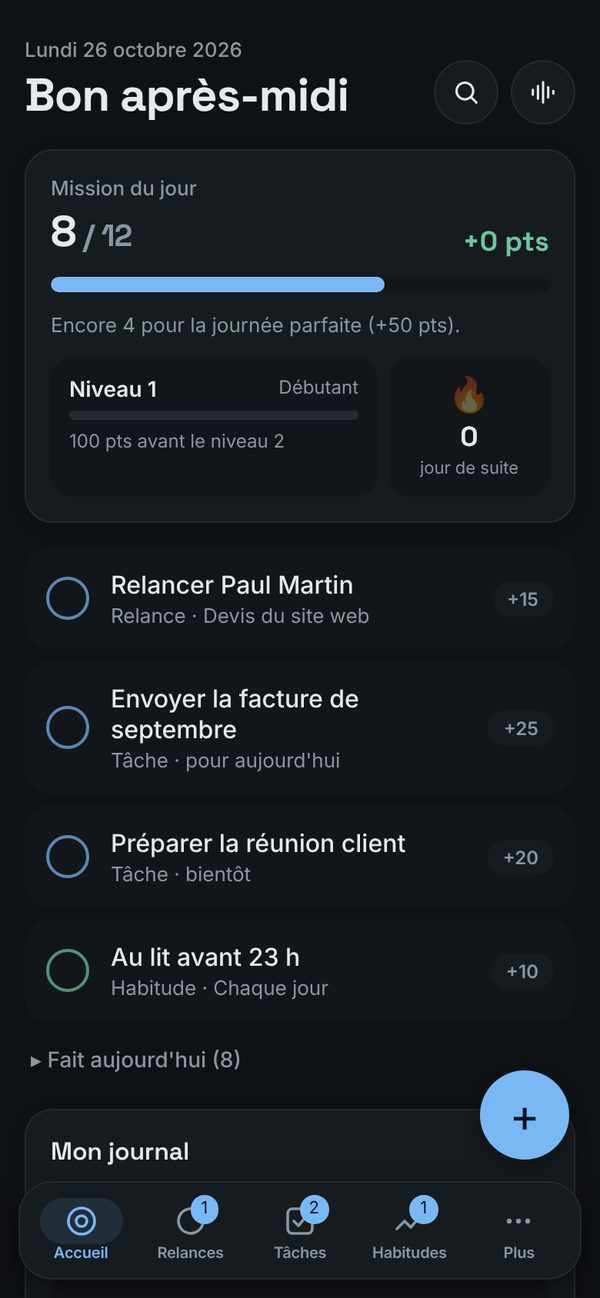
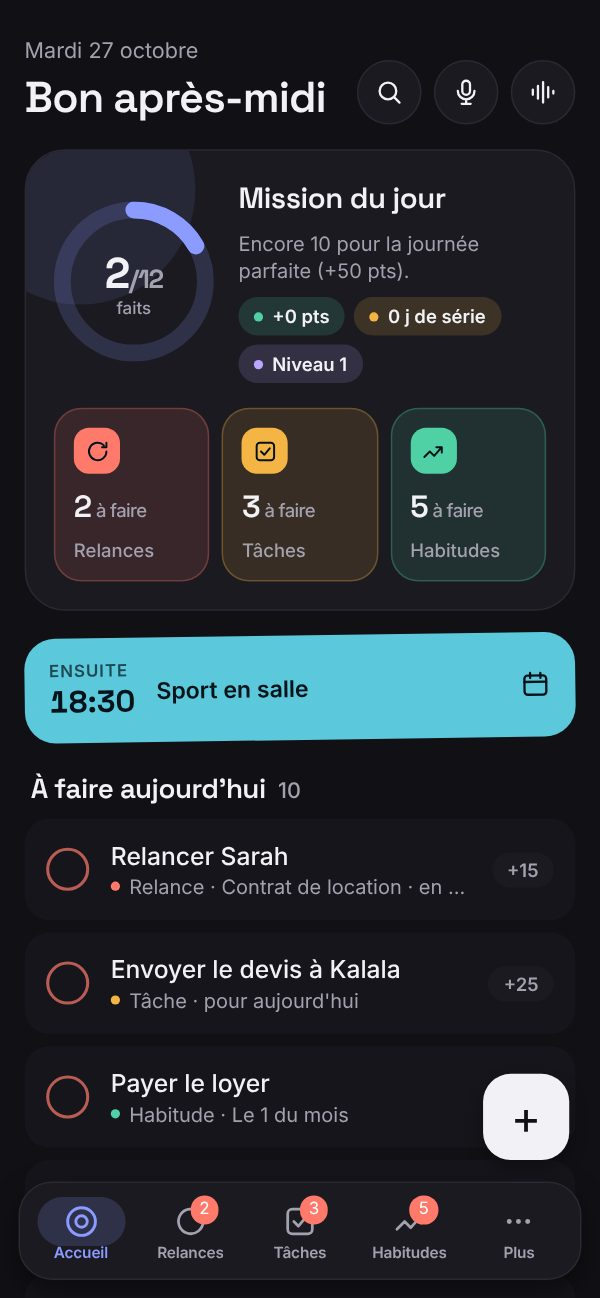
Page d'avant connexion : titre surligné, autocollants de couleur, démo en post-it et bloc final coloré
Claude-Session: https://claude.ai/code/session_013pZHjhhFWab4ZDErQf9CTK

diff --git a/src/components/accueil-public.tsx b/src/components/accueil-public.tsx
@@ -1,6 +1,7 @@
 import { useEffect, useState } from 'react';
 import { AccessibilityInfo, Image, type ImageSourcePropType, Pressable, ScrollView, Text, useWindowDimensions, View } from 'react-native';
 
+import { teinte, vive, type Vive } from '@/lib/teinte';
 import { alpha, C, F } from '@/lib/theme';
 
 import { type IconeNom, Icone } from './icones';
@@ -9,24 +10,24 @@ import { SousOnglets } from './onglets';
 import { Btn, Screen } from './ui';
 
 /** Phrases d'exemple : ce que l'app comprend vraiment (voir `lirePhrase`). La première puce est le genre. */
-const EXEMPLES = [
-  { phrase: 'Relancer Paul jeudi pour le devis', puces: ['Relance', 'Paul', 'jeudi', 'Devis'], suite: 'Ajoutée à tes relances, avec un rappel jeudi.' },
-  { phrase: 'Envoyer la facture demain urgent', puces: ['Tâche', 'Envoyer la facture', 'demain', 'importante'], suite: 'Ajoutée à tes tâches, pour demain.' },
-  { phrase: 'Sport tous les jours', puces: ['Habitude', 'Sport', 'chaque jour'], suite: 'Ajoutée à tes habitudes, à cocher chaque jour.' },
-  { phrase: '20 usd resto hier', puces: ['Dépense', '20 $', 'Resto', 'hier'], suite: 'Ajoutée à tes dépenses, convertie dans ta devise.' },
+const EXEMPLES: { phrase: string; puces: string[]; suite: string; couleur: Vive }[] = [
+  { phrase: 'Relancer Paul jeudi pour le devis', puces: ['Relance', 'Paul', 'jeudi', 'Devis'], suite: 'Ajoutée à tes relances, avec un rappel jeudi.', couleur: 'corail' },
+  { phrase: 'Envoyer la facture demain urgent', puces: ['Tâche', 'Envoyer la facture', 'demain', 'importante'], suite: 'Ajoutée à tes tâches, pour demain.', couleur: 'ambre' },
+  { phrase: 'Sport tous les jours', puces: ['Habitude', 'Sport', 'chaque jour'], suite: 'Ajoutée à tes habitudes, à cocher chaque jour.', couleur: 'menthe' },
+  { phrase: '20 usd resto hier', puces: ['Dépense', '20 $', 'Resto', 'hier'], suite: 'Ajoutée à tes dépenses, convertie dans ta devise.', couleur: 'indigo' },
 ];
 
-const ATOUTS: { icone: IconeNom; titre: string; texte: string }[] = [
-  { icone: 'relances', titre: 'Les relances ne tombent plus dans l’oubli', texte: 'Me te dit qui relancer et quand, et prépare le brouillon du message.' },
-  { icone: 'taches', titre: 'Un rappel à ta façon pour chaque chose', texte: 'Discret, insistant ou en coach : tu choisis le mode de chaque tâche et habitude, et tu règles ce que fait chaque mode.' },
-  { icone: 'portefeuille', titre: 'Tes finances dans ta devise', texte: 'Budgets, revenus, paiements récurrents et prévisions en dollars, euros, FCFA ou 15 autres devises, converties pour toi.' },
-  { icone: 'stats', titre: 'Ton historique bancaire dans tes graphiques', texte: 'Importe le relevé CSV de ta banque : les opérations sont rangées par budget, avec leurs doublons repérés.' },
-  { icone: 'onde', titre: 'Sur tous tes appareils', texte: 'Téléphone ou ordinateur : ce que tu modifies à deux endroits est fusionné, jamais écrasé.' },
+const ATOUTS: { icone: IconeNom; titre: string; texte: string; couleur: Vive }[] = [
+  { icone: 'relances', titre: 'Les relances ne tombent plus dans l’oubli', texte: 'Me te dit qui relancer et quand, et prépare le brouillon du message.', couleur: 'corail' },
+  { icone: 'taches', titre: 'Un rappel à ta façon pour chaque chose', texte: 'Discret, insistant ou en coach : tu choisis le mode de chaque tâche et habitude, et tu règles ce que fait chaque mode.', couleur: 'ambre' },
+  { icone: 'portefeuille', titre: 'Tes finances dans ta devise', texte: 'Budgets, revenus, paiements récurrents et prévisions en dollars, euros, FCFA ou 15 autres devises, converties pour toi.', couleur: 'indigo' },
+  { icone: 'stats', titre: 'Ton historique bancaire dans tes graphiques', texte: 'Importe le relevé CSV de ta banque : les opérations sont rangées par budget, avec leurs doublons repérés.', couleur: 'lagon' },
+  { icone: 'onde', titre: 'Sur tous tes appareils', texte: 'Téléphone ou ordinateur : ce que tu modifies à deux endroits est fusionné, jamais écrasé.', couleur: 'menthe' },
 ];
 
 /** Captures de l'app (données d'exemple), prises sur téléphone (390 px) et sur ordinateur (1280 px). */
 const ECRANS: { image: ImageSourcePropType; titre: string; texte: string; alt: string }[] = [
-  { image: require('@/assets/images/apercu/tel-accueil.jpg'), titre: 'Ta journée en un coup d’œil', texte: 'La mission du jour : qui relancer, quoi faire, quelles habitudes cocher, et les points à gagner.', alt: "L'écran Aujourd'hui : la mission du jour, une relance, deux tâches et une habitude" },
+  { image: require('@/assets/images/apercu/tel-accueil.jpg'), titre: 'Ta journée en un coup d’œil', texte: 'La mission du jour : qui relancer, quoi faire, quelles habitudes cocher, et les points à gagner.', alt: "L'écran Aujourd'hui : la carte de la mission du jour, le prochain rendez-vous et la liste des choses à faire" },
   { image: require('@/assets/images/apercu/tel-budgets.jpg'), titre: 'Des budgets qui tiennent', texte: 'Par jour, par mois ou jusqu’à une date, avec ce qu’il te reste à dépenser.', alt: "L'onglet Budgets de Finances : un budget total, des budgets par catégorie et un budget de vacances jusqu'à une date" },
   { image: require('@/assets/images/apercu/tel-projet.jpg'), titre: 'Des projets planifiés', texte: 'Tâches, sous-tâches et liens, ajoutés à la main ou importés d’Excel.', alt: 'Un projet et ses tâches, avec les dates, les responsables et la voie critique' },
 ];
@@ -136,16 +137,23 @@ function Demo() {
     return () => clearTimeout(t);
   }, [i, n, vues, fige, ex]);
 
+  const c = vive(ex.couleur);
   return (
+    <View style={{ width: '100%', maxWidth: 440 }}>
+    {/* Une carte de couleur derrière, décalée : la démo a l'air posée sur la page. */}
+    <View pointerEvents="none" style={{ position: 'absolute', left: 10, right: -6, top: 12, bottom: -10, borderRadius: 24, backgroundColor: alpha(c, 0.55), transform: [{ rotate: '2.5deg' }] }} />
     <View
       accessible
       accessibilityLabel={`Exemple : « ${EXEMPLES[0].phrase} » devient une relance pour Paul, jeudi, au sujet du devis.`}
-      style={{ gap: 14, padding: 18, borderRadius: 22, backgroundColor: C.surface, borderWidth: 1, borderColor: C.accentLine, width: '100%', maxWidth: 440 }}>
-      <Text style={{ color: C.muted, fontFamily: F.texteM, fontSize: 13 }}>Dis-le en une phrase</Text>
+      style={{ gap: 14, padding: 18, borderRadius: 22, backgroundColor: C.surface, borderWidth: 1, borderColor: alpha(c, 0.5), transform: [{ rotate: '-1deg' }] }}>
+      <View style={{ flexDirection: 'row', alignItems: 'center', gap: 8 }}>
+        <View style={{ width: 8, height: 8, borderRadius: 4, backgroundColor: c }} />
+        <Text style={{ color: C.muted, fontFamily: F.texteM, fontSize: 13 }}>Dis-le en une phrase</Text>
+      </View>
       <View style={{ minHeight: 52, justifyContent: 'center', paddingHorizontal: 14, paddingVertical: 12, borderRadius: 14, backgroundColor: C.sunk, borderWidth: 1, borderColor: C.line }}>
         <Text style={{ color: C.ink, fontFamily: F.texte, fontSize: 17, lineHeight: 24 }}>
           {ex.phrase.slice(0, n)}
-          {!fige && n < ex.phrase.length ? <Text style={{ color: C.accent }}>▏</Text> : null}
+          {!fige && n < ex.phrase.length ? <Text style={{ color: c }}>▏</Text> : null}
         </Text>
       </View>
       <View style={{ minHeight: 72, gap: 10 }}>
@@ -160,14 +168,64 @@ function Demo() {
               borderRadius: 999,
               overflow: 'hidden',
               fontFamily: k ? F.texteM : F.texteF,
-              color: k ? C.ink : C.accentInk,
-              backgroundColor: k ? alpha(C.accent, 0.12) : C.accent,
+              color: k ? C.ink : teinte(c).encre,
+              backgroundColor: k ? alpha(c, 0.14) : c,
             }}>
             {p}
           </Text>
         ))}
         </View>
         <Text style={{ color: C.muted, fontFamily: F.texte, fontSize: 13, opacity: vues >= ex.puces.length && n >= ex.phrase.length ? 1 : 0 }}>{ex.suite}</Text>
+      </View>
+    </View>
+    </View>
+  );
+}
+
+/** Les quatre rubriques, chacune dans sa couleur, posées comme des autocollants. */
+const RUBRIQUES: { icone: IconeNom; nom: string; couleur: Vive }[] = [
+  { icone: 'relances', nom: 'Relances', couleur: 'corail' },
+  { icone: 'taches', nom: 'Tâches', couleur: 'ambre' },
+  { icone: 'habitudes', nom: 'Habitudes', couleur: 'menthe' },
+  { icone: 'portefeuille', nom: 'Finances', couleur: 'indigo' },
+];
+
+function Autocollants() {
+  return (
+    <View style={{ flexDirection: 'row', flexWrap: 'wrap', gap: 8 }}>
+      {RUBRIQUES.map((r, k) => {
+        const t = teinte(vive(r.couleur));
+        return (
+          <View key={r.nom} style={{ flexDirection: 'row', alignItems: 'center', gap: 7, paddingLeft: 7, paddingRight: 12, paddingVertical: 6, borderRadius: 999, backgroundColor: t.douce, borderWidth: 1, borderColor: t.ligne, transform: [{ rotate: ['-2deg', '1.5deg', '-1deg', '2deg'][k % 4] }] }}>
+            <View style={{ width: 24, height: 24, borderRadius: 12, backgroundColor: t.c, alignItems: 'center', justifyContent: 'center' }}>
+              <Icone nom={r.icone} color={t.encre} size={14} />
+            </View>
+            <Text style={{ color: C.ink, fontFamily: F.texteF, fontSize: 14 }}>{r.nom}</Text>
+          </View>
+        );
+      })}
+    </View>
+  );
+}
+
+/** Dernier appel, dans un bloc de couleur : ce qui reste en tête en bas de la page. */
+function Final({ large, onConnexion, onInscription }: { large: boolean; onConnexion: () => void; onInscription: () => void }) {
+  const t = teinte(vive('indigo'));
+  return (
+    <View style={{ gap: 18, padding: large ? 40 : 24, borderRadius: 28, backgroundColor: t.c, overflow: 'hidden', alignItems: large ? 'flex-start' : 'stretch' }}>
+      <View pointerEvents="none" style={{ position: 'absolute', right: -40, bottom: -60, width: 200, height: 200, borderRadius: 100, backgroundColor: alpha(vive('rose'), 0.55) }} />
+      <View pointerEvents="none" style={{ position: 'absolute', right: -18, top: -24, width: 72, height: 72, borderRadius: 36, backgroundColor: alpha(vive('ambre'), 0.6) }} />
+      <Text accessibilityRole="header" aria-level={2} style={{ color: t.encre, fontFamily: F.titre, fontSize: large ? 34 : 27, lineHeight: large ? 40 : 33, letterSpacing: -0.6, maxWidth: 560 }}>
+        Ta première relance en moins d’une minute.
+      </Text>
+      <Text style={{ color: alpha(t.encre, 0.75), fontFamily: F.texte, fontSize: 16, lineHeight: 24, maxWidth: 480 }}>Sur ton téléphone et ton ordinateur, avec les mêmes données.</Text>
+      <View style={{ flexDirection: 'row', flexWrap: 'wrap', gap: 10 }}>
+        <Pressable accessibilityRole="button" onPress={onInscription} style={({ pressed }) => ({ paddingVertical: 14, paddingHorizontal: 22, borderRadius: 14, backgroundColor: t.encre, opacity: pressed ? 0.9 : 1 })}>
+          <Text style={{ color: t.c, fontFamily: F.texteF, fontSize: 16, textAlign: 'center' }}>Créer mon compte</Text>
+        </Pressable>
+        <Pressable accessibilityRole="button" onPress={onConnexion} style={({ pressed }) => ({ paddingVertical: 14, paddingHorizontal: 22, borderRadius: 14, borderWidth: 1.5, borderColor: alpha(t.encre, 0.5), opacity: pressed ? 0.8 : 1 })}>
+          <Text style={{ color: t.encre, fontFamily: F.texteF, fontSize: 16, textAlign: 'center' }}>Se connecter</Text>
+        </Pressable>
       </View>
     </View>
   );
@@ -181,24 +239,27 @@ export function AccueilPublic({ onConnexion, onInscription }: { onConnexion: () 
       <View style={{ gap: large ? 72 : 52, paddingTop: 12, paddingBottom: 24 }}>
         <View style={{ flexDirection: 'row', alignItems: 'center', justifyContent: 'space-between' }}>
           <View style={{ flexDirection: 'row', alignItems: 'center', gap: 10 }}>
-            <View style={{ width: 36, height: 36, borderRadius: 11, backgroundColor: C.accent, alignItems: 'center', justifyContent: 'center' }}>
-              <Text style={{ color: C.accentInk, fontSize: 16, fontFamily: F.titre, letterSpacing: -0.5 }}>Me</Text>
+            <View style={{ width: 36, height: 36, borderRadius: 11, backgroundColor: vive('indigo'), alignItems: 'center', justifyContent: 'center', transform: [{ rotate: '-6deg' }] }}>
+              <Text style={{ color: teinte(vive('indigo')).encre, fontSize: 16, fontFamily: F.titre, letterSpacing: -0.5 }}>Me</Text>
             </View>
             <Text style={{ color: C.ink, fontFamily: F.titreM, fontSize: 17 }}>Ton assistant personnel</Text>
           </View>
           <Pressable accessibilityRole="button" onPress={onConnexion} hitSlop={8} style={{ paddingVertical: 8, paddingHorizontal: 4 }}>
-            <Text style={{ color: C.accent, fontFamily: F.texteF, fontSize: 15 }}>Se connecter</Text>
+            <Text style={{ color: vive('indigo'), fontFamily: F.texteF, fontSize: 15 }}>Se connecter</Text>
           </Pressable>
         </View>
 
-        <View style={{ flexDirection: large ? 'row' : 'column', alignItems: large ? 'center' : 'stretch', gap: large ? 48 : 32 }}>
+        <View style={{ flexDirection: large ? 'row' : 'column', alignItems: large ? 'center' : 'stretch', gap: large ? 48 : 36 }}>
+          {/* Une tache de couleur derrière le titre : la page a l'air dessinée, pas sortie d'un modèle. */}
+          <View pointerEvents="none" style={{ position: 'absolute', left: large ? -60 : -70, top: large ? -70 : -50, width: 220, height: 220, borderRadius: 110, backgroundColor: alpha(vive('indigo'), C.sombre ? 0.07 : 0.06) }} />
           <View style={{ flex: large ? 1.2 : undefined, gap: 20 }}>
             <View accessibilityRole="header" aria-level={1} accessible accessibilityLabel="Dis-le en une phrase. Me s’occupe du reste.">
-              {['Dis-le en une phrase.', 'Me s’occupe du reste.'].map((l) => (
-                <Text key={l} style={{ color: C.ink, fontFamily: F.titre, fontSize: large ? 42 : 34, lineHeight: large ? 48 : 40, letterSpacing: -1 }}>
-                  {l}
-                </Text>
-              ))}
+              <Text style={{ color: C.ink, fontFamily: F.titre, fontSize: large ? 46 : 34, lineHeight: large ? 56 : 44, letterSpacing: -1 }}>
+                Dis-le en <Text style={{ color: teinte(vive('ambre')).encre, backgroundColor: vive('ambre') }}>une phrase.</Text>
+              </Text>
+              <Text style={{ color: C.ink, fontFamily: F.titre, fontSize: large ? 46 : 34, lineHeight: large ? 56 : 44, letterSpacing: -1 }}>
+                <Text style={{ color: vive('indigo') }}>Me</Text> s’occupe du reste.
+              </Text>
             </View>
             <Text style={{ color: C.muted, fontFamily: F.texte, fontSize: 17, lineHeight: 26, maxWidth: 460 }}>
               Relances, tâches, habitudes et dépenses au même endroit, dans la devise de ton choix. Chaque action te rapporte des points.
@@ -207,6 +268,7 @@ export function AccueilPublic({ onConnexion, onInscription }: { onConnexion: () 
               <Btn label="Créer mon compte" onPress={onInscription} />
               <Btn kind="sec" label="J’ai déjà un compte" onPress={onConnexion} />
             </View>
+            <Autocollants />
           </View>
           <View style={{ flex: large ? 1 : undefined, alignItems: large ? 'flex-end' : 'stretch' }}>
             <Demo />
@@ -227,8 +289,8 @@ export function AccueilPublic({ onConnexion, onInscription }: { onConnexion: () 
                 borderTopColor: C.line,
                 ...(k === ATOUTS.length - 1 ? { borderBottomWidth: 1, borderBottomColor: C.line } : null),
               }}>
-              <View style={{ width: 40, height: 40, borderRadius: 12, backgroundColor: C.accentSoft, alignItems: 'center', justifyContent: 'center' }}>
-                <Icone nom={a.icone} color={C.accent} size={20} />
+              <View style={{ width: 42, height: 42, borderRadius: 13, backgroundColor: vive(a.couleur), alignItems: 'center', justifyContent: 'center', transform: [{ rotate: k % 2 ? '4deg' : '-4deg' }] }}>
+                <Icone nom={a.icone} color={teinte(vive(a.couleur)).encre} size={20} />
               </View>
               <View style={{ flex: 1, flexDirection: large ? 'row' : 'column', gap: large ? 32 : 4 }}>
                 <Text accessibilityRole="header" aria-level={3} style={{ flex: large ? 1 : undefined, color: C.ink, fontFamily: F.titreM, fontSize: 18, lineHeight: 24 }}>
@@ -240,15 +302,7 @@ export function AccueilPublic({ onConnexion, onInscription }: { onConnexion: () 
           ))}
         </View>
 
-        <View style={{ gap: 16, alignItems: large ? 'flex-start' : 'stretch' }}>
-          <Text accessibilityRole="header" aria-level={2} style={{ color: C.ink, fontFamily: F.titre, fontSize: large ? 32 : 26, lineHeight: large ? 38 : 32, letterSpacing: -0.6 }}>
-            Ta première relance en moins d’une minute.
-          </Text>
-          <View style={{ flexDirection: 'row', flexWrap: 'wrap', gap: 10 }}>
-            <Btn label="Créer mon compte" onPress={onInscription} />
-            <Btn kind="sec" label="Se connecter" onPress={onConnexion} />
-          </View>
-        </View>
+        <Final large={large} onConnexion={onConnexion} onInscription={onInscription} />
 
         <LiensLegaux centre={!large} />
       </View>

diff --git a/CHANGELOG.md b/CHANGELOG.md
@@ -5,6 +5,13 @@ Les plus récents sont en haut. Chaque ligne dit ce que ça change pour l'utilis
 
 ## 27 octobre 2026
 
+### Page d'avant connexion : plus de couleur (app)
+- **Titre** : « une phrase » est surligné en ambre et « Me » passe en indigo ; une tache de couleur discrète se trouve derrière.
+- **Autocollants** sous les boutons : Relances, Tâches, Habitudes et Finances, chacun dans la couleur qu'il a dans l'app.
+- **La démo** est posée comme un post-it sur une carte de couleur ; sa couleur et la première puce suivent le genre de la phrase (corail pour une relance, ambre pour une tâche, menthe pour une habitude, indigo pour une dépense).
+- **Atouts** : chaque pictogramme a sa propre couleur. **Le dernier appel** est un grand bloc indigo avec « Créer mon compte » et « Se connecter ».
+- La capture « Ta journée en un coup d'œil » montre le nouvel accueil.
+
 ### Accueil : ta journée d'un coup d'œil (app)
 - **Une carte « Mission du jour »** remplace les trois compteurs et le panneau de progression : un anneau montre ce qui est fait, avec les points du jour, la série et le niveau en pastilles de couleur (toucher l'anneau ouvre les Récompenses). Dessous, une tuile par rubrique dans sa couleur (relances en corail, tâches en ambre, habitudes en menthe) dit combien il reste à faire et ouvre la rubrique.
 - **Le prochain rendez-vous** s'affiche comme un post-it bleu lagon (« Ensuite · 10:30 Appel avec Kalala ») ; il ouvre le calendrier.
